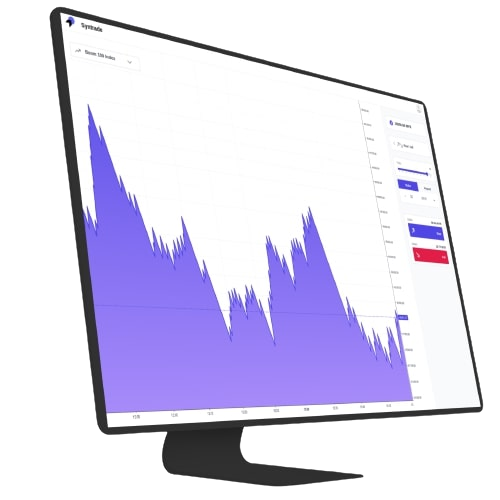
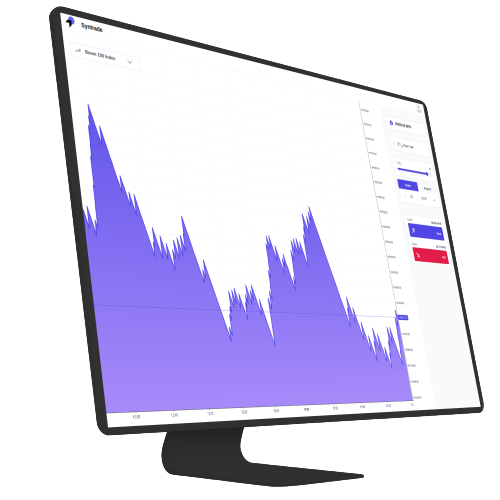
updated carousel hero

diff --git a/src/components/CarouselHero.jsx b/src/components/CarouselHero.jsx
@@ -3,7 +3,6 @@ import React from 'react'
 import { Swiper, SwiperSlide } from 'swiper/react'
 import CarouselImage1 from '@/images/desktopVers.png'
 import CarouselImage2 from '@/images/mobileVers.png'
-import CarouselImage3 from '@/images/desktop_mobile.png'
 
 // Import Swiper styles
 import 'swiper/css'
@@ -41,14 +40,6 @@ export function CarouselHero() {
             className="h-full w-full object-cover"
             src={CarouselImage2.src}
             alt="image slide 2"
-          />
-        </SwiperSlide>
-        <SwiperSlide>
-          <img
-            id="image-3"
-            className="h-full w-full object-cover"
-            src={CarouselImage3.src}
-            alt="image slide 3"
           />
         </SwiperSlide>
       </Swiper>
